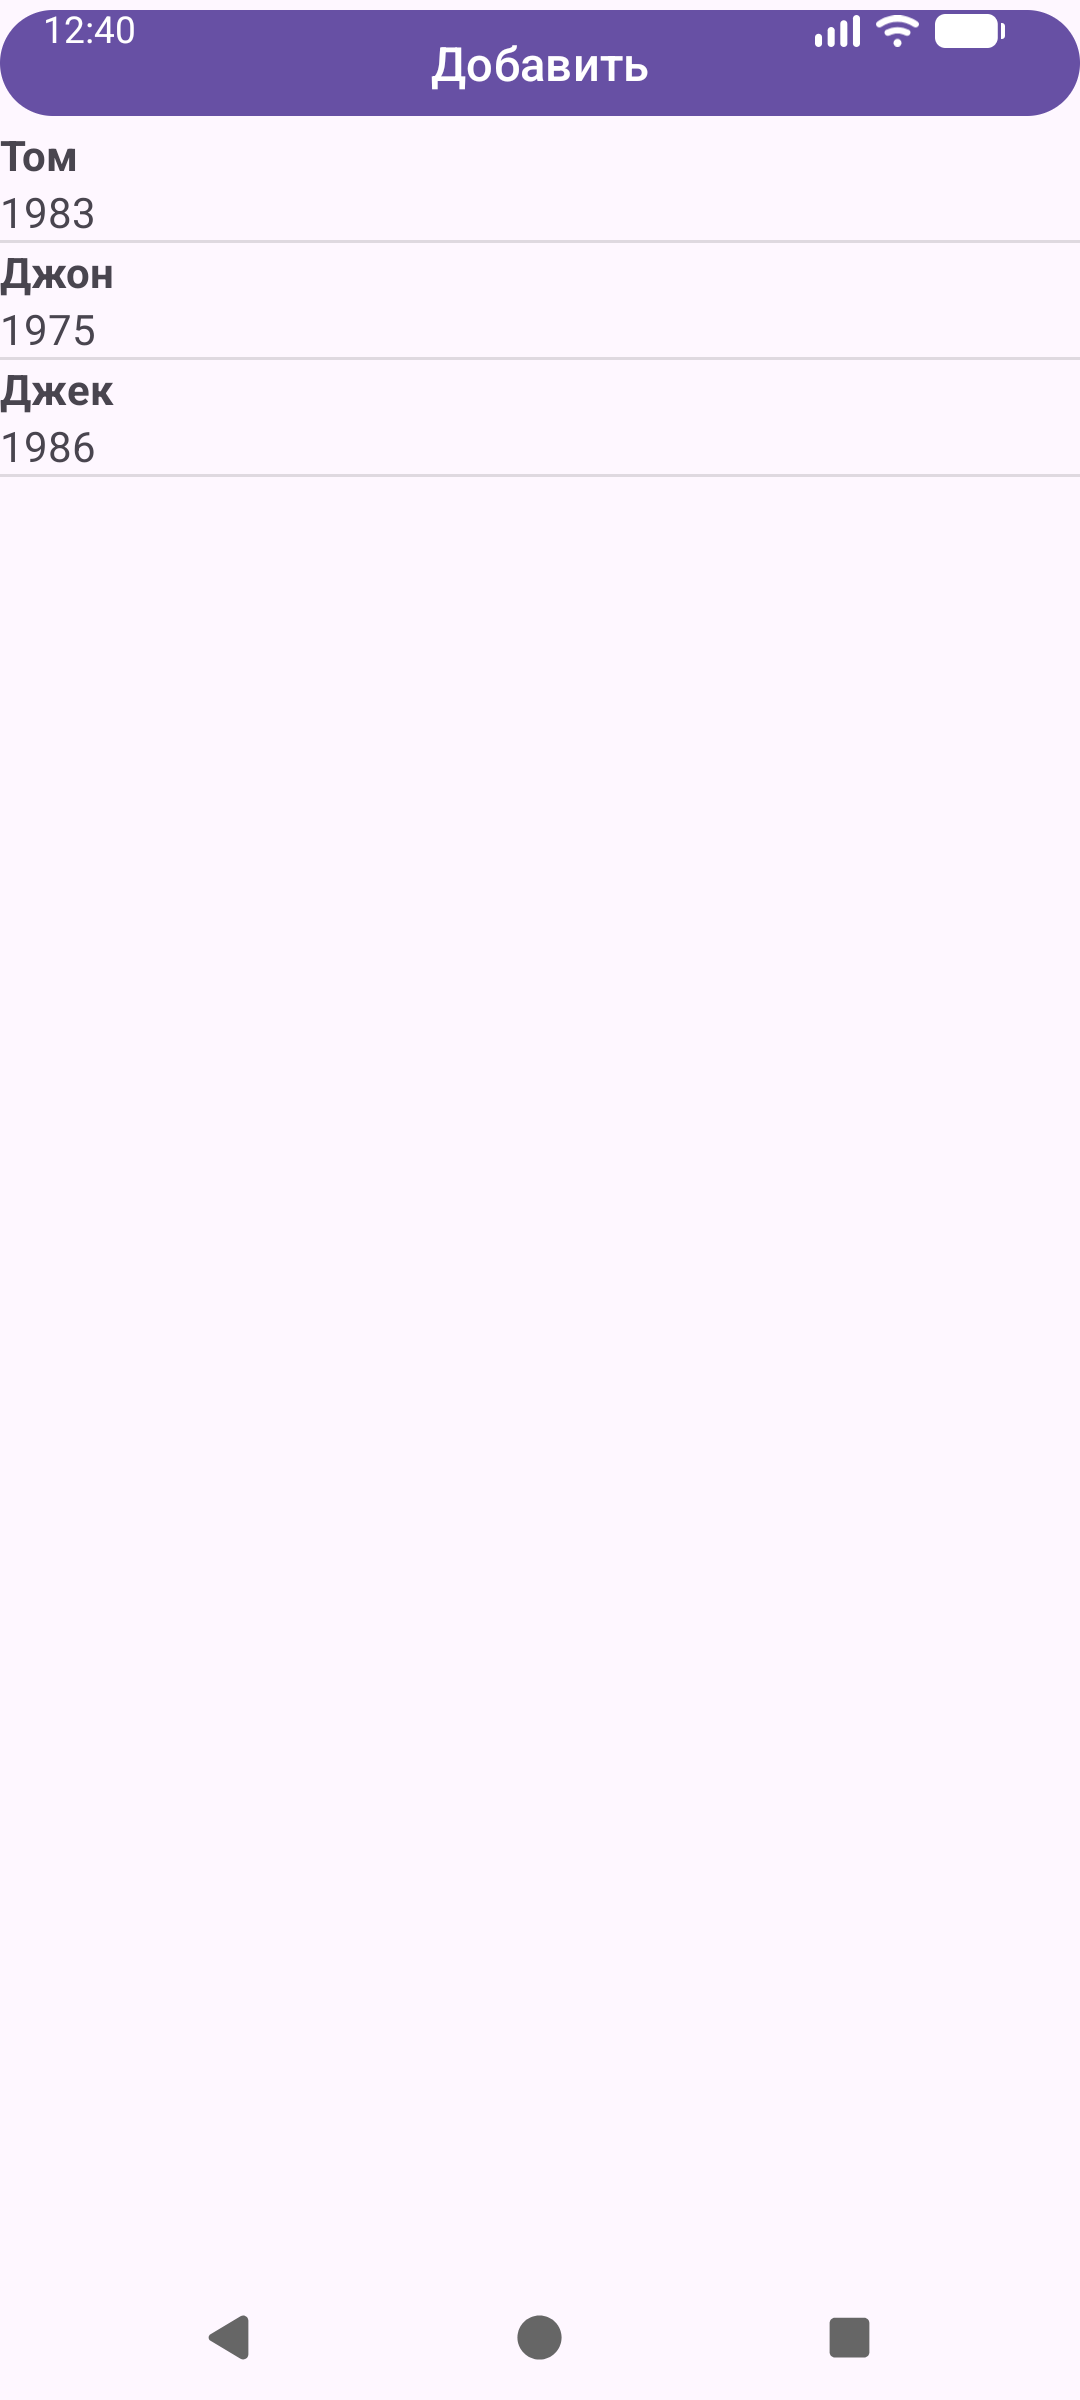
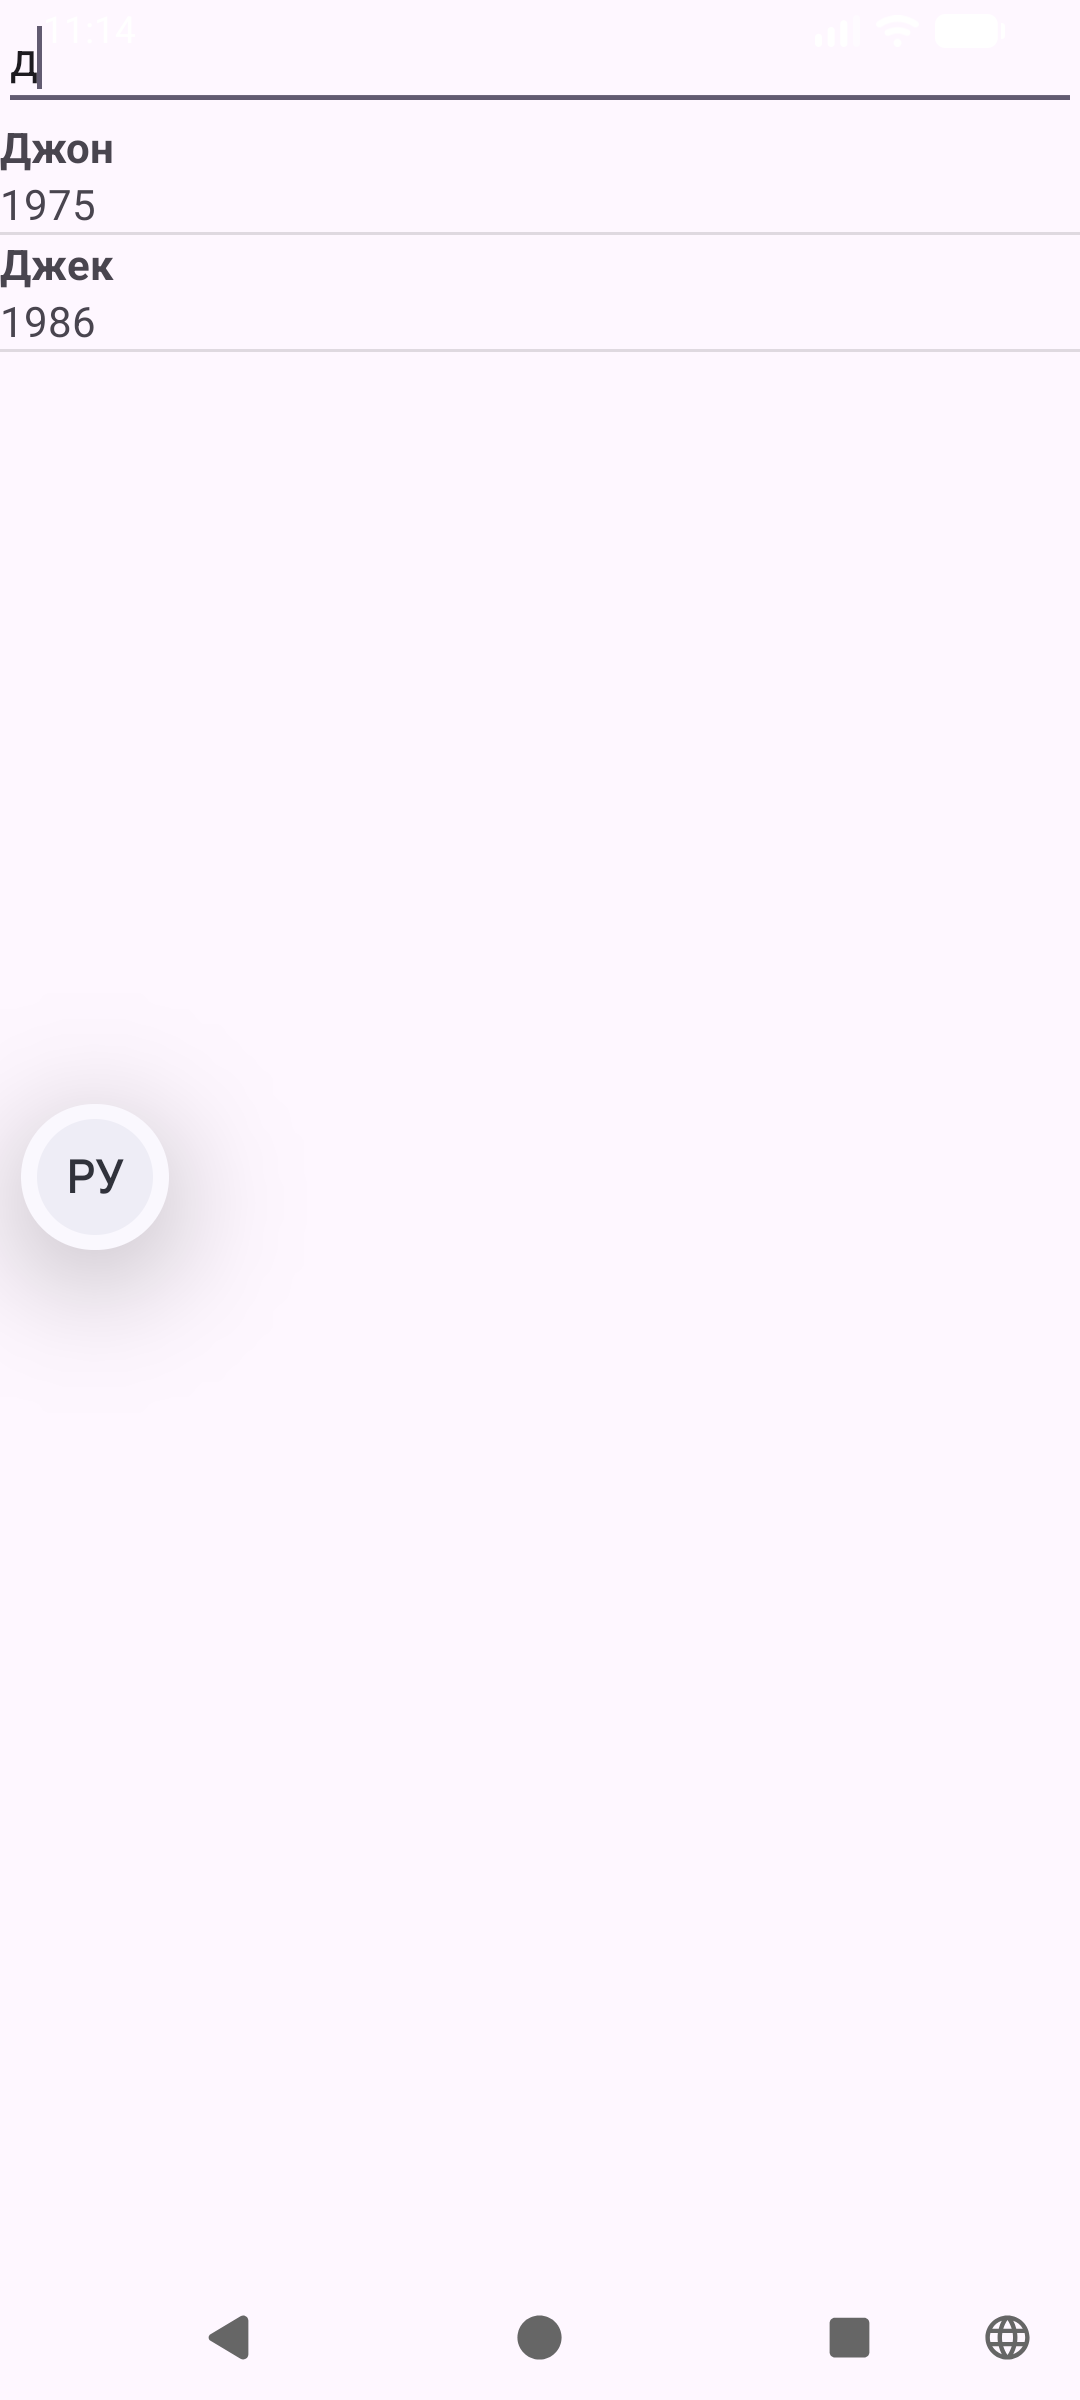
Динамический поиск по базе данных SQLite

Changed region(s): [[0.0, 0.0, 1.0, 0.2188], [0.0, 0.4688, 0.1528, 0.5312], [0.9167, 0.9688, 0.9472, 1.0]]

diff --git a/app/src/main/java/com/example/sqltask/MainActivity.java b/app/src/main/java/com/example/sqltask/MainActivity.java
@@ -2,66 +2,87 @@ package com.example.sqltask;
 
 import androidx.appcompat.app.AppCompatActivity;
 
-import android.content.Intent;
-import android.view.View;
-import android.widget.AdapterView;
-import android.widget.SimpleCursorAdapter;
 import android.database.Cursor;
+import android.database.SQLException;
 import android.database.sqlite.SQLiteDatabase;
 import android.os.Bundle;
+import android.text.Editable;
+import android.text.TextWatcher;
+import android.widget.EditText;
+import android.widget.FilterQueryProvider;
 import android.widget.ListView;
+import android.widget.SimpleCursorAdapter;
 
 public class MainActivity extends AppCompatActivity {
 
-    ListView userList;
-    DatabaseHelper databaseHelper;
+    DatabaseHelper sqlHelper;
     SQLiteDatabase db;
     Cursor userCursor;
     SimpleCursorAdapter userAdapter;
+    ListView userList;
+    EditText userFilter;
 
     @Override
     protected void onCreate(Bundle savedInstanceState) {
         super.onCreate(savedInstanceState);
         setContentView(R.layout.activity_main);
+        userList = (ListView)findViewById(R.id.userList);
+        userFilter = (EditText)findViewById(R.id.userFilter);
 
-        userList = findViewById(R.id.list);
-        userList.setOnItemClickListener(new AdapterView.OnItemClickListener() {
-            @Override
-            public void onItemClick(AdapterView<?> parent, View view, int position, long id) {
-                Intent intent = new Intent(getApplicationContext(), UserActivity.class);
-                intent.putExtra("id", id);
-                startActivity(intent);
-            }
-        });
-
-        databaseHelper = new DatabaseHelper(getApplicationContext());
+        sqlHelper = new DatabaseHelper(getApplicationContext());
         // создаем базу данных
-        databaseHelper.create_db();
+        sqlHelper.create_db();
     }
-
     @Override
     public void onResume() {
         super.onResume();
-        // открываем подключение
-        db = databaseHelper.open();
-        //получаем данные из бд в виде курсора
-        userCursor = db.rawQuery("select * from " + DatabaseHelper.TABLE, null);
-        // определяем, какие столбцы из курсора будут выводиться в ListView
-        String[] headers = new String[]{DatabaseHelper.COLUMN_NAME, DatabaseHelper.COLUMN_YEAR};
-        // создаем адаптер, передаем в него курсор
-        userAdapter = new SimpleCursorAdapter(this, android.R.layout.two_line_list_item,
-                userCursor, headers, new int[]{android.R.id.text1, android.R.id.text2}, 0);
-        userList.setAdapter(userAdapter);
-    }
+        try {
+            db = sqlHelper.open();
+            userCursor = db.rawQuery("select * from " + DatabaseHelper.TABLE, null);
+            String[] headers = new String[]{DatabaseHelper.COLUMN_NAME, DatabaseHelper.COLUMN_YEAR};
+            userAdapter = new SimpleCursorAdapter(this, android.R.layout.two_line_list_item,
+                    userCursor, headers, new int[]{android.R.id.text1, android.R.id.text2}, 0);
 
-    // по нажатию на кнопку запускаем UserActivity для добавления данных
-    public void add(View view) {
-        Intent intent = new Intent(this, UserActivity.class);
-        startActivity(intent);
-    }
+            // если в текстовом поле есть текст, выполняем фильтрацию
+            // данная проверка нужна при переходе от одной ориентации экрана к другой
+            if(!userFilter.getText().toString().isEmpty())
+                userAdapter.getFilter().filter(userFilter.getText().toString());
 
+            // установка слушателя изменения текста
+            userFilter.addTextChangedListener(new TextWatcher() {
+
+                public void afterTextChanged(Editable s) { }
+
+                public void beforeTextChanged(CharSequence s, int start, int count, int after) { }
+                // при изменении текста выполняем фильтрацию
+                public void onTextChanged(CharSequence s, int start, int before, int count) {
+
+                    userAdapter.getFilter().filter(s.toString());
+                }
+            });
+
+            // устанавливаем провайдер фильтрации
+            userAdapter.setFilterQueryProvider(new FilterQueryProvider() {
+                @Override
+                public Cursor runQuery(CharSequence constraint) {
+
+                    if (constraint == null || constraint.length() == 0) {
+
+                        return db.rawQuery("select * from " + DatabaseHelper.TABLE, null);
+                    }
+                    else {
+                        return db.rawQuery("select * from " + DatabaseHelper.TABLE + " where " +
+                                DatabaseHelper.COLUMN_NAME + " like ?", new String[]{"%" + constraint.toString() + "%"});
+                    }
+                }
+            });
+
+            userList.setAdapter(userAdapter);
+        }
+        catch (SQLException ex){}
+    }
     @Override
-    public void onDestroy() {
+    public void onDestroy(){
         super.onDestroy();
         // Закрываем подключение и курсор
         db.close();

diff --git a/readme.md b/readme.md
@@ -1,9 +1,9 @@
-# Использование существующей БД SQLite
-Создание и подготовка базы данных. 
+# Динамический поиск по базе данных SQLite
 
-База данных была заранее создана во внешнем инструменте (**SQLite**). В ней определена таблица users с полями: `_id`, `name`, `year`. В таблицу добавлены начальные данные.
-На основе реализованного в предыдущем задании функционала (добавление, редактирование и удаление записей) была реализована работа с заранее созданной БД.
+Был изучен механизм фильтрации с использованием `SimpleCursorAdapter`, а также обработка пользовательского ввода через `TextWatcher`.
 
-![База](1.png)
+В процессе работы рассмотрено, как при изменении текста в поле ввода выполняется фильтрация данных с помощью метода `filter()`, а также как с помощью `FilterQueryProvider` реализуется SQL-запрос с условием `LIKE` для поиска записей по введённой строке. Кроме того, изучена работа с существующей базой данных, подключённой из папки assets, и отображение отфильтрованных данных в списке `ListView`.
 
-![Форма](2.png)
+![Поиск](1.png)
+
+![Фильтрация](2.png)
